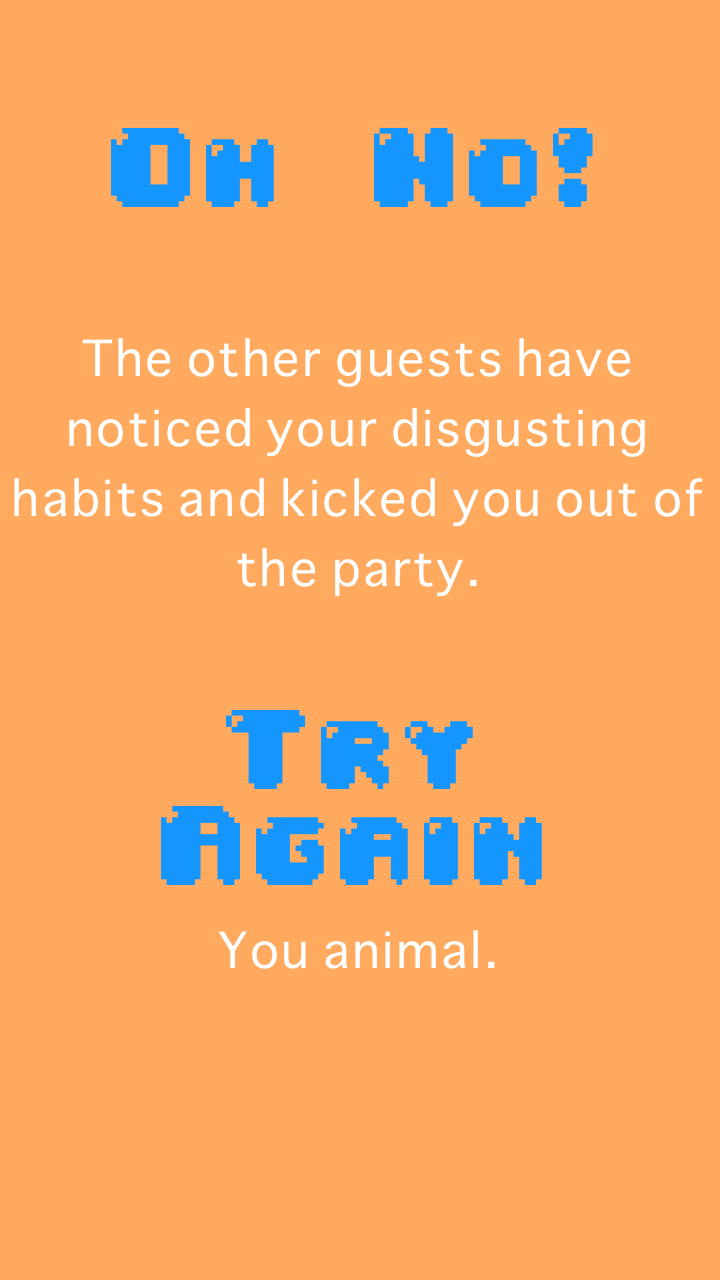
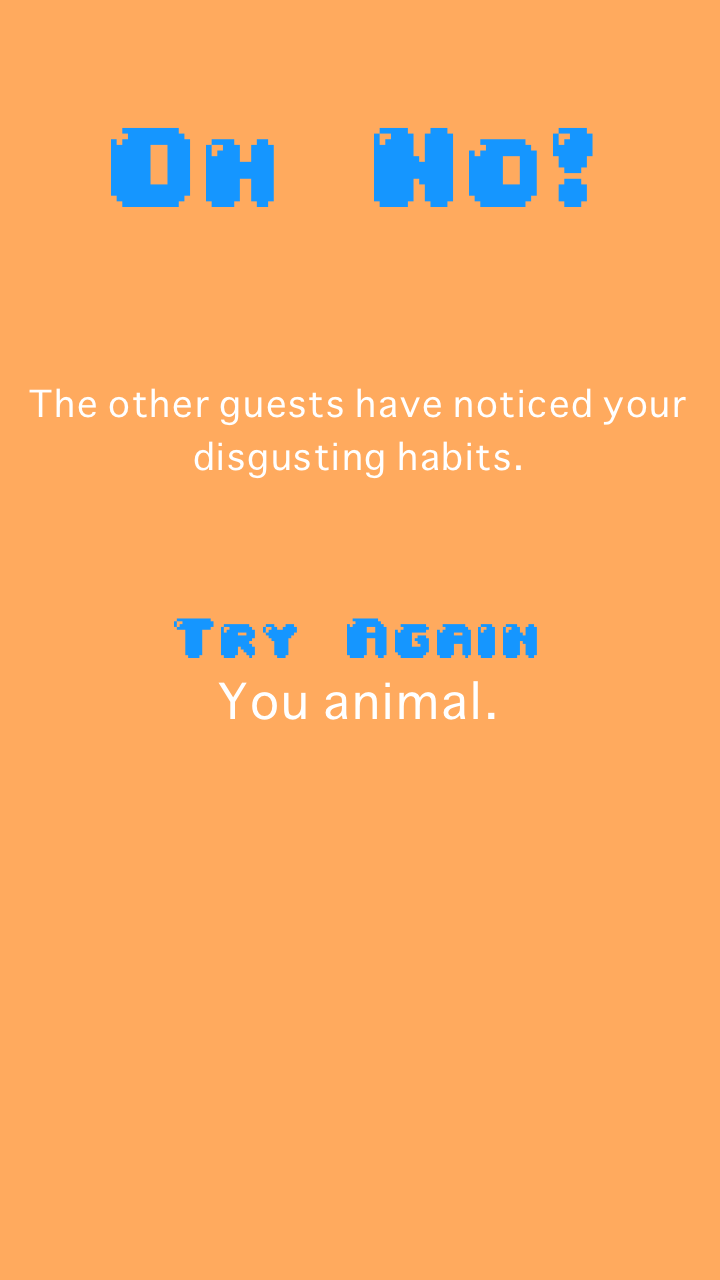
death state

diff --git a/app/scripts/states/Preload.ts b/app/scripts/states/Preload.ts
@@ -13,9 +13,9 @@ module Doubledip.State {
       this.load.image('table', 'assets/images/table.png');
       this.load.image('bowl', 'assets/images/bowl.png');
       this.load.image('hand', 'assets/sprites/hand.png');
-      this.load.spritesheet('person0', 'assets/sprites/person/person0.png', 64, 128, 6);
-      this.load.spritesheet('person1', 'assets/sprites/person/person1.png', 64, 128, 6);
-      this.load.spritesheet('person2', 'assets/sprites/person/person2.png', 64, 128, 6);
+      this.load.spritesheet('person0', 'assets/sprites/person/person0.png', 64, 128, 9);
+      this.load.spritesheet('person1', 'assets/sprites/person/person1.png', 64, 128, 9);
+      this.load.spritesheet('person2', 'assets/sprites/person/person2.png', 64, 128, 9);
       // Load remaining assets here
     }
 

diff --git a/app/scripts/Game.ts b/app/scripts/Game.ts
@@ -5,6 +5,7 @@
 /// <reference path='states/Preload.ts'/>
 /// <reference path='states/Menu.ts'/>
 /// <reference path='states/Main.ts'/>
+/// <reference path='states/Death.ts'/>
 /// <reference path='objects/Bowl.ts'/>
 /// <reference path='objects/Person.ts'/>
 
@@ -17,7 +18,7 @@ module Doubledip {
       this.state.add('preload', State.Preload);
       this.state.add('menu', State.Menu);
       this.state.add('main', State.Main);
-
+      this.state.add('death', State.Death);
       this.state.start('boot');
     }
   }

diff --git a/app/scripts/objects/Bowl.ts b/app/scripts/objects/Bowl.ts
@@ -20,8 +20,10 @@ module Doubledip {
 			this.state.people.forEach(function(person: Person) {
 				if (person.facing) {
 					caught = true;
+					person.animations.play('exclaim', 6, false);
+					this.state.failure();
 				}
-			});
+			}, this);
 
 			if (caught) {
 				// game over
@@ -33,6 +35,10 @@ module Doubledip {
 
 		onUp (sprite, pointer) {
 			this.state.hand.visible = false;
+		}
+
+		determineCaught (person: Person) {
+
 		}
 	}
 }

diff --git a/app/scripts/objects/Person.ts b/app/scripts/objects/Person.ts
@@ -9,8 +9,9 @@ module Doubledip {
 			this.scale.setTo(3, 3);
 			this.facing = true;
 			this.game = game;
-			this.animations.add('turnToFront', [1, 2, 3, 4, 5, 6]);
-			this.animations.add('turnToBack', [6, 5, 4, 3, 2, 1]);
+			this.animations.add('turnToFront', [1, 2, 3, 4, 5]);
+			this.animations.add('turnToBack', [5, 4, 3, 2, 1]);
+			this.animations.add('exclaim', [6, 7, 8, 9]);
 		}
 
 		toggleFace() {

diff --git a/app/scripts/states/Main.ts b/app/scripts/states/Main.ts
@@ -52,5 +52,11 @@ module Doubledip.State {
       var scoreString = this.score.toString() + ' DIPS';
       this.scoreText.setText(scoreString);
     }
+
+    failure() {
+      this.game.time.events.add(Phaser.Timer.SECOND * 3, function() {
+        this.game.state.start('death');
+      }, this);
+    }
   }
 }

diff --git a/app/scripts/states/Menu.ts b/app/scripts/states/Menu.ts
@@ -4,6 +4,8 @@ module Doubledip.State {
 
     create() {
       this.background = this.add.sprite(0, 120, 'menu-background');
+      var bowl = this.game.add.sprite(260, 500, 'bowl');
+      bowl.scale.setTo(3, 3);
       this.input.onDown.addOnce(() => {
         this.game.state.start('main');
       });

diff --git a/app/scripts/states/Death.ts b/app/scripts/states/Death.ts
@@ -1,0 +1,12 @@
+module Doubledip.State {
+	export class Death extends Phaser.State {
+		background: Phaser.Sprite;
+
+		create() {
+			this.background = this.game.add.sprite(0, 0, 'death-bg');
+			this.input.onDown.addOnce(() => {
+				this.game.state.start('main');
+			})
+		}
+	}
+}
